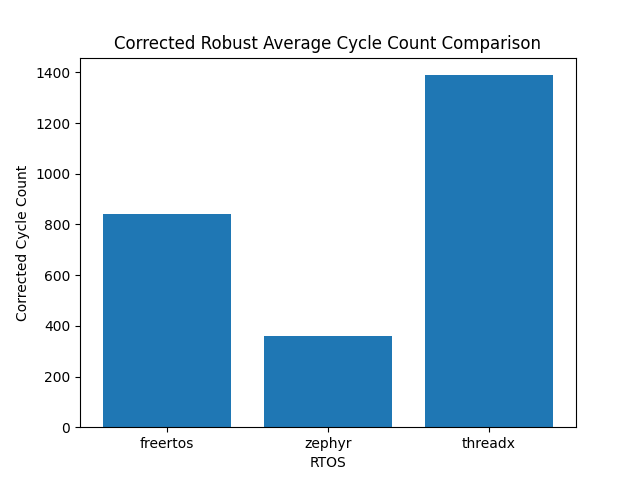
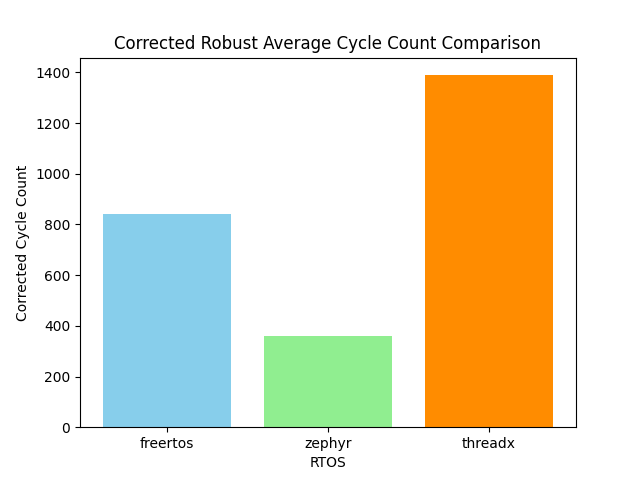
changed colors of plots

Changed region(s): [[0.6562, 0.1562, 0.875, 0.9062], [0.1562, 0.4375, 0.375, 0.9062], [0.4062, 0.6875, 0.625, 0.9062]]

diff --git a/task_synchronisation_preempt_test/analyse_and_plot.py b/task_synchronisation_preempt_test/analyse_and_plot.py
@@ -245,7 +245,8 @@ def main():
         # Build list of robust averages for each RTOS.
         values = [summary_dict[rtos][metric]['robust_avg'] for rtos in rtoses]
         plt.figure()
-        plt.bar(rtoses, values)
+        # plot bars in different colors
+        plt.bar(rtoses, values, color=['skyblue', 'lightgreen', 'darkorange'])
         plt.xlabel("RTOS")
         plt.ylabel(ylabel)
         plt.title(title)
